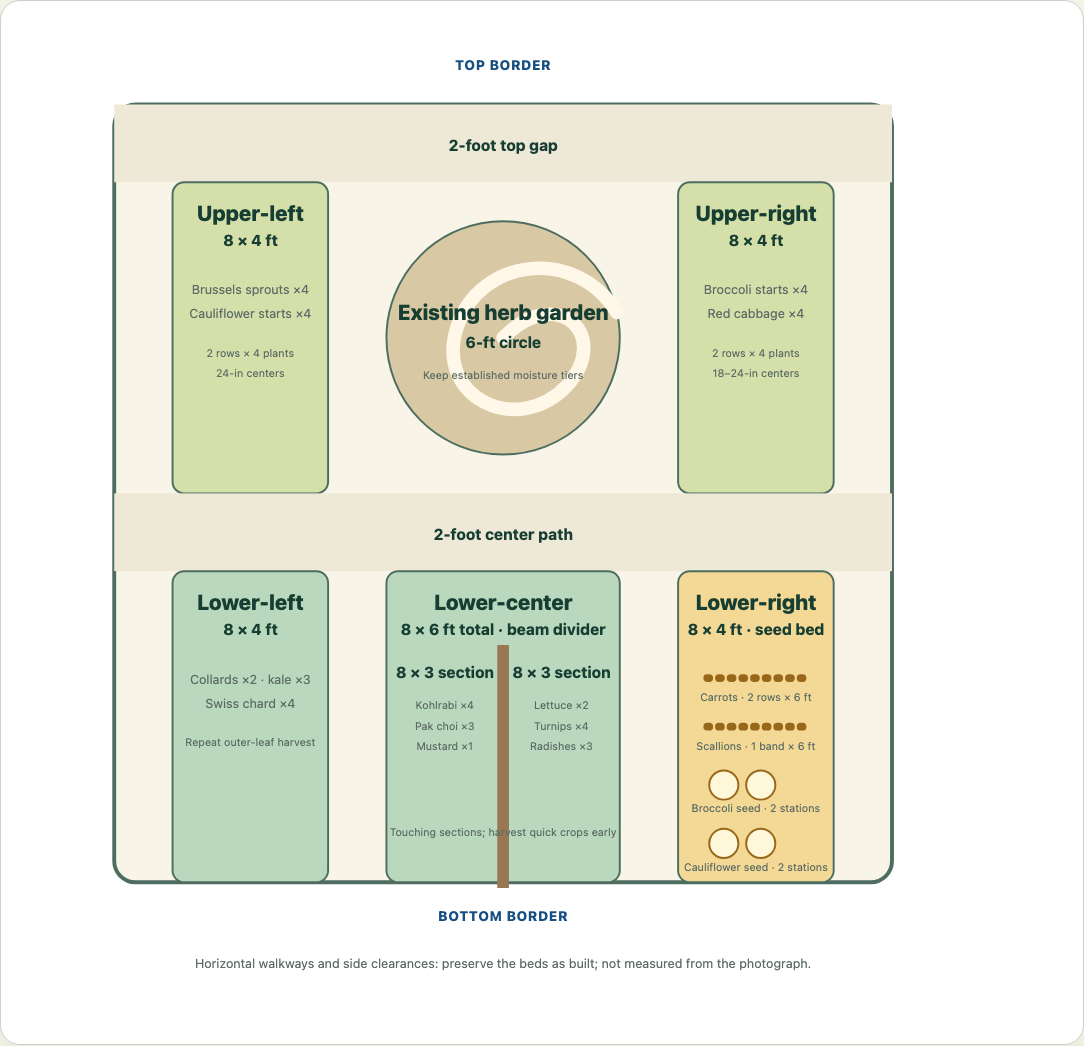
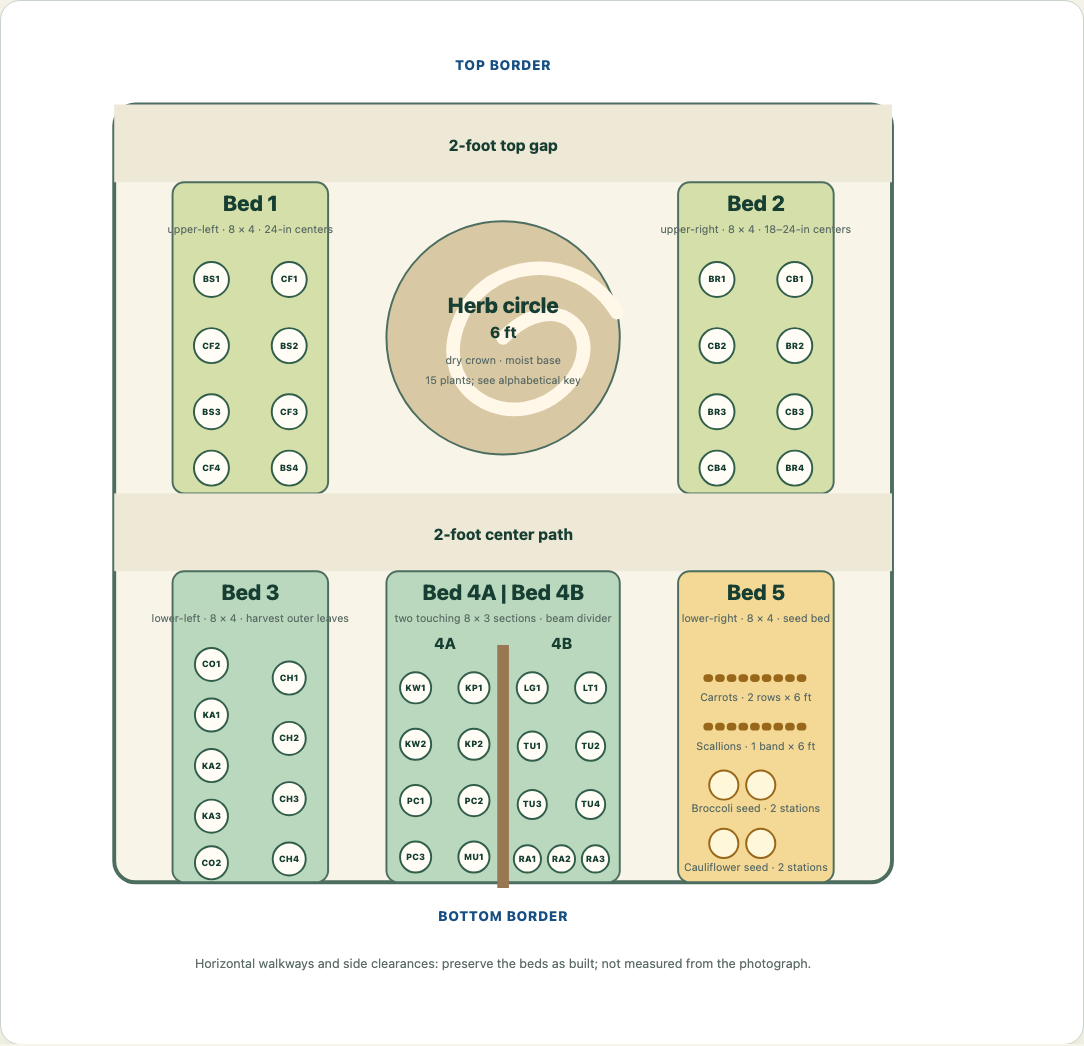
Add exact bed planting assignments

diff --git a/projects/fall-garden-simplified-layout.html b/projects/fall-garden-simplified-layout.html
@@ -26,11 +26,19 @@
       .station{fill:#fff7da;stroke:#986719;stroke-width:2}
       .trellis{stroke:var(--accent);stroke-width:5;stroke-dasharray:10 7;fill:none}
       .beam{stroke:#9a7753;stroke-width:12;stroke-linecap:square}
+      .plant-dot{fill:#fffdf5;stroke:#315e4a;stroke-width:2}
+      .plant-code{font-size:9px;font-weight:850;fill:#173e32;text-anchor:middle;dominant-baseline:central}
       .note{fill:#fff;stroke:#9cad9f;stroke-width:1.5}
       .cards{display:grid;grid-template-columns:repeat(auto-fit,minmax(240px,1fr));gap:14px;margin-top:18px}
       .card{background:#fff;border:1px solid #c9d3cb;border-radius:14px;padding:16px}
       .card h2{font-size:17px;margin:0 0 6px}.card p,.card ul{margin:0;color:var(--muted)}
       .card ul{padding-left:18px}.warning{border-color:#d69b7f;background:#fff8f3}
+      .list-wrap{margin-top:20px;overflow:auto;background:#fff;border:1px solid #c9d3cb;border-radius:16px}
+      table{width:100%;border-collapse:collapse;min-width:760px}
+      th,td{padding:11px 13px;text-align:left;border-bottom:1px solid #dde4df;vertical-align:top}
+      th{background:#edf3ed;color:var(--fg);font-size:12px;letter-spacing:.04em;text-transform:uppercase}
+      tbody tr:last-child td{border-bottom:0}
+      .bed-id{font-weight:800;color:var(--accent);white-space:nowrap}
       @media print{body{background:#fff}.map{box-shadow:none}.cards{grid-template-columns:repeat(2,1fr)}}
     </style>
   </head>
@@ -50,54 +58,85 @@
           <text x="500" y="138" text-anchor="middle" class="label">2-foot top gap</text>
 
           <rect x="160" y="170" width="160" height="320" rx="12" class="bed large"/>
-          <text x="240" y="210" text-anchor="middle" class="title">Upper-left</text>
-          <text x="240" y="236" text-anchor="middle" class="label">8 × 4 ft</text>
-          <text x="240" y="285" text-anchor="middle" class="small">Brussels sprouts ×4</text>
-          <text x="240" y="310" text-anchor="middle" class="small">Cauliflower starts ×4</text>
-          <text x="240" y="350" text-anchor="middle" class="tiny">2 rows × 4 plants</text>
-          <text x="240" y="370" text-anchor="middle" class="tiny">24-in centers</text>
+          <text x="240" y="200" text-anchor="middle" class="title">Bed 1</text>
+          <text x="240" y="222" text-anchor="middle" class="tiny">upper-left · 8 × 4 · 24-in centers</text>
+          <g aria-label="Four Brussels sprouts and four cauliflower starts in alternating rows">
+            <circle cx="200" cy="270" r="18" class="plant-dot"/><text x="200" y="270" class="plant-code">BS1</text>
+            <circle cx="280" cy="270" r="18" class="plant-dot"/><text x="280" y="270" class="plant-code">CF1</text>
+            <circle cx="200" cy="338" r="18" class="plant-dot"/><text x="200" y="338" class="plant-code">CF2</text>
+            <circle cx="280" cy="338" r="18" class="plant-dot"/><text x="280" y="338" class="plant-code">BS2</text>
+            <circle cx="200" cy="406" r="18" class="plant-dot"/><text x="200" y="406" class="plant-code">BS3</text>
+            <circle cx="280" cy="406" r="18" class="plant-dot"/><text x="280" y="406" class="plant-code">CF3</text>
+            <circle cx="200" cy="464" r="18" class="plant-dot"/><text x="200" y="464" class="plant-code">CF4</text>
+            <circle cx="280" cy="464" r="18" class="plant-dot"/><text x="280" y="464" class="plant-code">BS4</text>
+          </g>
 
           <circle cx="500" cy="330" r="120" class="bed spiral"/>
           <path d="M500 330c58-58 112 0 65 50-50 52-137 12-112-62 23-70 122-83 164-14" fill="none" stroke="#fff8e9" stroke-width="14" stroke-linecap="round"/>
-          <text x="500" y="312" text-anchor="middle" class="title">Existing herb garden</text>
-          <text x="500" y="340" text-anchor="middle" class="label">6-ft circle</text>
-          <text x="500" y="372" text-anchor="middle" class="tiny">Keep established moisture tiers</text>
+          <text x="500" y="304" text-anchor="middle" class="title">Herb circle</text>
+          <text x="500" y="330" text-anchor="middle" class="label">6 ft</text>
+          <text x="500" y="357" text-anchor="middle" class="tiny">dry crown · moist base</text>
+          <text x="500" y="378" text-anchor="middle" class="tiny">15 plants; see alphabetical key</text>
 
           <rect x="680" y="170" width="160" height="320" rx="12" class="bed large"/>
-          <text x="760" y="210" text-anchor="middle" class="title">Upper-right</text>
-          <text x="760" y="236" text-anchor="middle" class="label">8 × 4 ft</text>
-          <text x="760" y="285" text-anchor="middle" class="small">Broccoli starts ×4</text>
-          <text x="760" y="310" text-anchor="middle" class="small">Red cabbage ×4</text>
-          <text x="760" y="350" text-anchor="middle" class="tiny">2 rows × 4 plants</text>
-          <text x="760" y="370" text-anchor="middle" class="tiny">18–24-in centers</text>
+          <text x="760" y="200" text-anchor="middle" class="title">Bed 2</text>
+          <text x="760" y="222" text-anchor="middle" class="tiny">upper-right · 8 × 4 · 18–24-in centers</text>
+          <g aria-label="Four broccoli and four red cabbage plants in alternating rows">
+            <circle cx="720" cy="270" r="18" class="plant-dot"/><text x="720" y="270" class="plant-code">BR1</text>
+            <circle cx="800" cy="270" r="18" class="plant-dot"/><text x="800" y="270" class="plant-code">CB1</text>
+            <circle cx="720" cy="338" r="18" class="plant-dot"/><text x="720" y="338" class="plant-code">CB2</text>
+            <circle cx="800" cy="338" r="18" class="plant-dot"/><text x="800" y="338" class="plant-code">BR2</text>
+            <circle cx="720" cy="406" r="18" class="plant-dot"/><text x="720" y="406" class="plant-code">BR3</text>
+            <circle cx="800" cy="406" r="18" class="plant-dot"/><text x="800" y="406" class="plant-code">CB3</text>
+            <circle cx="720" cy="464" r="18" class="plant-dot"/><text x="720" y="464" class="plant-code">CB4</text>
+            <circle cx="800" cy="464" r="18" class="plant-dot"/><text x="800" y="464" class="plant-code">BR4</text>
+          </g>
 
           <rect x="100" y="490" width="800" height="80" class="path"/>
           <text x="500" y="538" text-anchor="middle" class="label">2-foot center path</text>
 
           <rect x="160" y="570" width="160" height="320" rx="12" class="bed leaf"/>
-          <text x="240" y="610" text-anchor="middle" class="title">Lower-left</text>
-          <text x="240" y="636" text-anchor="middle" class="label">8 × 4 ft</text>
-          <text x="240" y="686" text-anchor="middle" class="small">Collards ×2 · kale ×3</text>
-          <text x="240" y="711" text-anchor="middle" class="small">Swiss chard ×4</text>
-          <text x="240" y="750" text-anchor="middle" class="tiny">Repeat outer-leaf harvest</text>
+          <text x="240" y="600" text-anchor="middle" class="title">Bed 3</text>
+          <text x="240" y="622" text-anchor="middle" class="tiny">lower-left · 8 × 4 · harvest outer leaves</text>
+          <g aria-label="Two collards and three kale in one row, four Swiss chard in the other">
+            <circle cx="200" cy="666" r="17" class="plant-dot"/><text x="200" y="666" class="plant-code">CO1</text>
+            <circle cx="200" cy="718" r="17" class="plant-dot"/><text x="200" y="718" class="plant-code">KA1</text>
+            <circle cx="200" cy="770" r="17" class="plant-dot"/><text x="200" y="770" class="plant-code">KA2</text>
+            <circle cx="200" cy="822" r="17" class="plant-dot"/><text x="200" y="822" class="plant-code">KA3</text>
+            <circle cx="200" cy="870" r="17" class="plant-dot"/><text x="200" y="870" class="plant-code">CO2</text>
+            <circle cx="280" cy="680" r="17" class="plant-dot"/><text x="280" y="680" class="plant-code">CH1</text>
+            <circle cx="280" cy="742" r="17" class="plant-dot"/><text x="280" y="742" class="plant-code">CH2</text>
+            <circle cx="280" cy="804" r="17" class="plant-dot"/><text x="280" y="804" class="plant-code">CH3</text>
+            <circle cx="280" cy="866" r="17" class="plant-dot"/><text x="280" y="866" class="plant-code">CH4</text>
+          </g>
 
           <rect x="380" y="570" width="240" height="320" rx="12" class="bed leaf"/>
-          <text x="500" y="610" text-anchor="middle" class="title">Lower-center</text>
-          <text x="500" y="636" text-anchor="middle" class="label">8 × 6 ft total · beam divider</text>
+          <text x="500" y="600" text-anchor="middle" class="title">Bed 4A | Bed 4B</text>
+          <text x="500" y="622" text-anchor="middle" class="tiny">two touching 8 × 3 sections · beam divider</text>
           <line x1="500" y1="652" x2="500" y2="890" class="beam"/>
-          <text x="440" y="680" text-anchor="middle" class="label">8 × 3 section</text>
-          <text x="440" y="712" text-anchor="middle" class="tiny">Kohlrabi ×4</text>
-          <text x="440" y="733" text-anchor="middle" class="tiny">Pak choi ×3</text>
-          <text x="440" y="754" text-anchor="middle" class="tiny">Mustard ×1</text>
-          <text x="560" y="680" text-anchor="middle" class="label">8 × 3 section</text>
-          <text x="560" y="712" text-anchor="middle" class="tiny">Lettuce ×2</text>
-          <text x="560" y="733" text-anchor="middle" class="tiny">Turnips ×4</text>
-          <text x="560" y="754" text-anchor="middle" class="tiny">Radishes ×3</text>
-          <text x="500" y="842" text-anchor="middle" class="tiny">Touching sections; harvest quick crops early</text>
+          <text x="440" y="650" text-anchor="middle" class="label">4A</text>
+          <circle cx="410" cy="690" r="16" class="plant-dot"/><text x="410" y="690" class="plant-code">KW1</text>
+          <circle cx="470" cy="690" r="16" class="plant-dot"/><text x="470" y="690" class="plant-code">KP1</text>
+          <circle cx="410" cy="748" r="16" class="plant-dot"/><text x="410" y="748" class="plant-code">KW2</text>
+          <circle cx="470" cy="748" r="16" class="plant-dot"/><text x="470" y="748" class="plant-code">KP2</text>
+          <circle cx="410" cy="806" r="16" class="plant-dot"/><text x="410" y="806" class="plant-code">PC1</text>
+          <circle cx="470" cy="806" r="16" class="plant-dot"/><text x="470" y="806" class="plant-code">PC2</text>
+          <circle cx="410" cy="864" r="16" class="plant-dot"/><text x="410" y="864" class="plant-code">PC3</text>
+          <circle cx="470" cy="864" r="16" class="plant-dot"/><text x="470" y="864" class="plant-code">MU1</text>
+          <text x="560" y="650" text-anchor="middle" class="label">4B</text>
+          <circle cx="530" cy="690" r="16" class="plant-dot"/><text x="530" y="690" class="plant-code">LG1</text>
+          <circle cx="590" cy="690" r="16" class="plant-dot"/><text x="590" y="690" class="plant-code">LT1</text>
+          <circle cx="530" cy="750" r="15" class="plant-dot"/><text x="530" y="750" class="plant-code">TU1</text>
+          <circle cx="590" cy="750" r="15" class="plant-dot"/><text x="590" y="750" class="plant-code">TU2</text>
+          <circle cx="530" cy="810" r="15" class="plant-dot"/><text x="530" y="810" class="plant-code">TU3</text>
+          <circle cx="590" cy="810" r="15" class="plant-dot"/><text x="590" y="810" class="plant-code">TU4</text>
+          <circle cx="525" cy="866" r="14" class="plant-dot"/><text x="525" y="866" class="plant-code">RA1</text>
+          <circle cx="560" cy="866" r="14" class="plant-dot"/><text x="560" y="866" class="plant-code">RA2</text>
+          <circle cx="595" cy="866" r="14" class="plant-dot"/><text x="595" y="866" class="plant-code">RA3</text>
 
           <rect x="680" y="570" width="160" height="320" rx="12" class="bed seed"/>
-          <text x="760" y="610" text-anchor="middle" class="title">Lower-right</text>
-          <text x="760" y="636" text-anchor="middle" class="label">8 × 4 ft · seed bed</text>
+          <text x="760" y="600" text-anchor="middle" class="title">Bed 5</text>
+          <text x="760" y="622" text-anchor="middle" class="tiny">lower-right · 8 × 4 · seed bed</text>
           <line x1="710" y1="680" x2="810" y2="680" class="seedline"/>
           <text x="760" y="704" text-anchor="middle" class="tiny">Carrots · 2 rows × 6 ft</text>
           <line x1="710" y1="730" x2="810" y2="730" class="seedline"/>
@@ -116,6 +155,54 @@
         <section class="card"><h2>Watering-can rule</h2><p>Keep seed surfaces evenly damp with a gentle rose. Water established transplants deeply at their root zones only after the two-inch soil check shows drying.</p></section>
         <section class="card warning"><h2>Geometry check</h2><p>The vertical dimensions total exactly 20 feet. Do not alter the five rectangular beds or six-foot herb circle. Preserve the horizontal access spaces already present in the field.</p></section>
       </div>
+      <section aria-labelledby="alphabetical-heading">
+        <h2 id="alphabetical-heading" style="margin:28px 0 8px">Alphabetical planting list</h2>
+        <p class="lede">Bed numbers match the diagram. Counts are individual plants unless the row says seed batch.</p>
+        <div class="list-wrap">
+          <table>
+            <thead><tr><th>Plant</th><th>Count</th><th>Bed / zone</th><th>Exact placement</th></tr></thead>
+            <tbody>
+              <tr><td>Basil</td><td>2</td><td class="bed-id">Herb circle</td><td>Middle, moderate-moisture terrace; keep movable during cold weather.</td></tr>
+              <tr><td>Broccoli, Green Magic</td><td>4</td><td class="bed-id">Bed 2</td><td>Alternating checkerboard with cabbage, 18–24 inches apart.</td></tr>
+              <tr><td>Broccoli seed</td><td>1 batch</td><td class="bed-id">Bed 5</td><td>Two nursery stations; transplant later into harvested gaps.</td></tr>
+              <tr><td>Brussels sprouts, Jade Cross</td><td>4</td><td class="bed-id">Bed 1</td><td>Alternating checkerboard with cauliflower, 24 inches apart.</td></tr>
+              <tr><td>Cabbage, Red Express</td><td>4</td><td class="bed-id">Bed 2</td><td>Alternating checkerboard with broccoli, 18–24 inches apart.</td></tr>
+              <tr><td>Carrots</td><td>1 seed batch</td><td class="bed-id">Bed 5</td><td>Two six-foot rows in an 18-inch-wide loose-soil strip.</td></tr>
+              <tr><td>Cauliflower, Snow Crown</td><td>4</td><td class="bed-id">Bed 1</td><td>Alternating checkerboard with Brussels sprouts, 24 inches apart.</td></tr>
+              <tr><td>Cauliflower seed</td><td>1 batch</td><td class="bed-id">Bed 5</td><td>Two nursery stations; transplant later into harvested gaps.</td></tr>
+              <tr><td>Chamomile — confirm type</td><td>4</td><td class="bed-id">Sunny path pots</td><td>Keep movable until German versus Roman type is confirmed.</td></tr>
+              <tr><td>Chile pequín</td><td>1</td><td class="bed-id">Dry perimeter</td><td>Sunny east-side edge with mature shrub room.</td></tr>
+              <tr><td>Collards, Georgia</td><td>2</td><td class="bed-id">Bed 3</td><td>At opposite ends of the kale row; harvest outer leaves.</td></tr>
+              <tr><td>Fennel, Orion</td><td>1</td><td class="bed-id">Separate pot</td><td>Sunny perimeter; do not crowd the herb circle.</td></tr>
+              <tr><td>French Breakfast radish</td><td>3</td><td class="bed-id">Bed 4B</td><td>Three plants along the most accessible beam/path edge.</td></tr>
+              <tr><td>Galactic lettuce</td><td>1</td><td class="bed-id">Bed 4B</td><td>First position in the lettuce line.</td></tr>
+              <tr><td>Kale, Redbor</td><td>3</td><td class="bed-id">Bed 3</td><td>Between the two collards in one long row.</td></tr>
+              <tr><td>Kohlrabi, purple</td><td>2</td><td class="bed-id">Bed 4A</td><td>Alternating with white kohlrabi in the first row.</td></tr>
+              <tr><td>Kohlrabi, white</td><td>2</td><td class="bed-id">Bed 4A</td><td>Alternating with purple kohlrabi in the first row.</td></tr>
+              <tr><td>Leaf fennel / dill — confirm</td><td>3</td><td class="bed-id">West entrance pots</td><td>Keep separately labeled until identity is confirmed.</td></tr>
+              <tr><td>Lemon balm</td><td>2</td><td class="bed-id">Herb circle</td><td>Contained pots on the moist lower terrace.</td></tr>
+              <tr><td>Lemongrass</td><td>2</td><td class="bed-id">Movable containers</td><td>Sunny south/southeast perimeter; protect from cold.</td></tr>
+              <tr><td>Lettuce, Tropicana</td><td>1</td><td class="bed-id">Bed 4B</td><td>Second position in the lettuce line.</td></tr>
+              <tr><td>Malabar spinach</td><td>1</td><td class="bed-id">Container + trellis</td><td>Warm-season hold on the sunny perimeter.</td></tr>
+              <tr><td>Marjoram, compact</td><td>1</td><td class="bed-id">Herb circle</td><td>Upper dry shoulder below the rosemary crown.</td></tr>
+              <tr><td>Mexican mint marigold</td><td>3</td><td class="bed-id">Pollinator perimeter</td><td>East/northeast edge where mature height will not shade beds.</td></tr>
+              <tr><td>Mustard, Red Giant</td><td>1</td><td class="bed-id">Bed 4A</td><td>End of the pak-choi row; harvest young if space tightens.</td></tr>
+              <tr><td>Nasturtium</td><td>1</td><td class="bed-id">Movable pot</td><td>Near brassicas for observation, but outside the beds to prevent sprawl.</td></tr>
+              <tr><td>Pak choi, red</td><td>3</td><td class="bed-id">Bed 4A</td><td>Second row with mustard; 8–12 inches apart.</td></tr>
+              <tr><td>Pearl Pod bean — confirm habit</td><td>4</td><td class="bed-id">North trellis</td><td>Use trellis only if tag confirms climbing beans.</td></tr>
+              <tr><td>Rosemary</td><td>3</td><td class="bed-id">Herb circle + dry perimeter</td><td>One pruned crown plant; two on the dry east-side perimeter.</td></tr>
+              <tr><td>Rue</td><td>2</td><td class="bed-id">Dry perimeter</td><td>Away from entrance and skin-contact paths.</td></tr>
+              <tr><td>Sage</td><td>1</td><td class="bed-id">Herb circle</td><td>Upper dry shoulder with excellent drainage.</td></tr>
+              <tr><td>Scallions</td><td>1 seed batch</td><td class="bed-id">Bed 5</td><td>One six-foot band beside—but separately labeled from—carrots.</td></tr>
+              <tr><td>Strawberries</td><td>3</td><td class="bed-id">Herb circle</td><td>Sunny lower apron with even moisture.</td></tr>
+              <tr><td>Sweet woodruff</td><td>3</td><td class="bed-id">Herb circle</td><td>Removable pots at the coolest shaded base.</td></tr>
+              <tr><td>Swiss chard</td><td>4</td><td class="bed-id">Bed 3</td><td>One long row parallel to the collard/kale row.</td></tr>
+              <tr><td>Turnip, Scarlet Queen</td><td>4</td><td class="bed-id">Bed 4B</td><td>Middle succession line; harvest before roots crowd.</td></tr>
+              <tr><td>Vietnamese cilantro</td><td>2</td><td class="bed-id">Herb circle</td><td>Contained pots on the moist lower terrace.</td></tr>
+            </tbody>
+          </table>
+        </div>
+      </section>
     </main>
   </body>
 </html>

diff --git a/assets/garden-tracker.js b/assets/garden-tracker.js
@@ -1,18 +1,18 @@
 (()=>{
   'use strict';
   const GROUPS=[
-    ['BS','Jade Cross Brussels sprouts',4,'Upper-left 8 × 4 bed'],['CF','Snow Crown cauliflower',4,'Upper-left 8 × 4 bed'],
-    ['CB','Red Express cabbage',4,'Upper-right 8 × 4 bed'],['BR','Green Magic broccoli',4,'Upper-right 8 × 4 bed'],['KW','White kohlrabi',2,'Lower-center section 1 · 8 × 3'],['KP','Purple kohlrabi',2,'Lower-center section 1 · 8 × 3'],
-    ['CO','Georgia collards',2,'Lower-left 8 × 4 bed'],['KA','Redbor kale',3,'Lower-left 8 × 4 bed'],['CH','Swiss chard',4,'Lower-left 8 × 4 bed'],['PC','Red pak choi',3,'Lower-center section 1 · 8 × 3'],['MU','Red Giant mustard',1,'Lower-center section 1 · 8 × 3'],['LG','Galactic lettuce',1,'Lower-center section 2 · 8 × 3'],['LT','Tropicana lettuce',1,'Lower-center section 2 · 8 × 3'],['TU','Scarlet Queen turnip',4,'Lower-center section 2 · 8 × 3'],['RA','French Breakfast radish',3,'Lower-center section 2 · 8 × 3'],
+    ['BS','Jade Cross Brussels sprouts',4,'Bed 1 · upper-left 8 × 4'],['CF','Snow Crown cauliflower',4,'Bed 1 · upper-left 8 × 4'],
+    ['CB','Red Express cabbage',4,'Bed 2 · upper-right 8 × 4'],['BR','Green Magic broccoli',4,'Bed 2 · upper-right 8 × 4'],['KW','White kohlrabi',2,'Bed 4A · lower-center 8 × 3'],['KP','Purple kohlrabi',2,'Bed 4A · lower-center 8 × 3'],
+    ['CO','Georgia collards',2,'Bed 3 · lower-left 8 × 4'],['KA','Redbor kale',3,'Bed 3 · lower-left 8 × 4'],['CH','Swiss chard',4,'Bed 3 · lower-left 8 × 4'],['PC','Red pak choi',3,'Bed 4A · lower-center 8 × 3'],['MU','Red Giant mustard',1,'Bed 4A · lower-center 8 × 3'],['LG','Galactic lettuce',1,'Bed 4B · lower-center 8 × 3'],['LT','Tropicana lettuce',1,'Bed 4B · lower-center 8 × 3'],['TU','Scarlet Queen turnip',4,'Bed 4B · lower-center 8 × 3'],['RA','French Breakfast radish',3,'Bed 4B · lower-center 8 × 3'],
     ['RO','Rosemary',3,'Herb spiral / east dry edge'],['SG','Culinary sage',1,'Herb spiral'],['MJ','Compact marjoram',1,'Herb spiral'],['BA','Basil',2,'Herb spiral'],['VC','Vietnamese cilantro',2,'Herb spiral'],['LB','Lemon balm',2,'Herb spiral'],['SW','Sweet woodruff',3,'Herb spiral'],['ST','Strawberry',3,'Herb spiral'],
     ['RU','Rue',2,'East dry edge'],['CP','Chile pequín',1,'East dry edge'],['MM','Mexican mint marigold',3,'East / northeast pollinator edge'],
     ['LM','Lemongrass',2,'South / southeast containers'],['MS','Malabar spinach',1,'South / southeast containers'],['NA','Nasturtium',1,'Movable container'],['FO','Orion fennel',1,'Movable container'],['FD','Leaf fennel / dill — confirm',3,'West entrance pots'],
     ['BE','Pearl Pod bean — confirm habit',4,'V-shaped north trellis'],
     ['CM','Chamomile — confirm German or Roman',4,'Sunny south path pots'],
-    ['CA','Carrot seed strip — batch',1,'Lower-right 8 × 4 seed bed'],
-    ['SC','Scallion seed band — batch',1,'Lower-right 8 × 4 seed bed'],
-    ['BRS','Broccoli seed nursery — batch',1,'Lower-right 8 × 4 seed bed'],
-    ['CFS','Cauliflower seed nursery — batch',1,'Lower-right 8 × 4 seed bed']
+    ['CA','Carrot seed strip — batch',1,'Bed 5 · lower-right 8 × 4'],
+    ['SC','Scallion seed band — batch',1,'Bed 5 · lower-right 8 × 4'],
+    ['BRS','Broccoli seed nursery — batch',1,'Bed 5 · lower-right 8 × 4'],
+    ['CFS','Cauliflower seed nursery — batch',1,'Bed 5 · lower-right 8 × 4']
   ];
   let serial=0;
   const PLANTS=GROUPS.flatMap(([code,name,count,location])=>Array.from({length:count},(_,i)=>({id:`${code}-${String(i+1).padStart(2,'0')}`,number:++serial,code,name,specimen:i+1,total:count,location})));

diff --git a/projects/south-texas-fall-garden-plan.html b/projects/south-texas-fall-garden-plan.html
@@ -72,12 +72,12 @@
           <noscript><img src="../assets/fall-garden/simplified-layout-2026.png" alt="Corrected fall garden plan showing five rectangular beds in two rows around a six-foot circular herb garden" width="1084" height="1040"></noscript>
           <p class="plot-note"><a href="fall-garden-simplified-layout.html"><strong>Open or print the simplified layout by itself →</strong></a></p>
           <div class="garden-cards" style="margin-top:22px">
-            <article class="garden-card"><h3>Upper-left · 8 × 4 ft</h3><p>Jade Cross Brussels sprouts ×4 and Snow Crown cauliflower transplants ×4 in two rows at about 24 inches.</p></article>
+            <article class="garden-card"><h3>Bed 1 · upper-left · 8 × 4 ft</h3><p>Jade Cross Brussels sprouts ×4 and Snow Crown cauliflower transplants ×4 in an alternating two-by-four checkerboard at about 24 inches.</p></article>
             <article class="garden-card"><h3>Upper-center · 6-ft circle</h3><p>Keep the established herb garden and its dry-crown, moderate-middle, and moist-base watering tiers.</p></article>
-            <article class="garden-card"><h3>Upper-right · 8 × 4 ft</h3><p>Green Magic broccoli transplants ×4 and Red Express cabbage ×4 at 18–24 inches.</p></article>
-            <article class="garden-card"><h3>Lower-left · 8 × 4 ft</h3><p>Georgia collards ×2, Redbor kale ×3, and Swiss chard ×4 for repeated outer-leaf harvests.</p></article>
-            <article class="garden-card"><h3>Lower-center · two touching 8 × 3 sections</h3><p>The dividing beam creates two management sections: kohlrabi, pak choi, and mustard on one side; lettuce, turnips, and radishes on the other.</p></article>
-            <article class="garden-card"><h3>Lower-right · 8 × 4 ft</h3><p>Two 6-foot carrot rows, one 6-foot scallion band, two broccoli-seed stations, and two cauliflower-seed stations.</p></article>
+            <article class="garden-card"><h3>Bed 2 · upper-right · 8 × 4 ft</h3><p>Green Magic broccoli transplants ×4 and Red Express cabbage ×4 in an alternating two-by-four checkerboard at 18–24 inches.</p></article>
+            <article class="garden-card"><h3>Bed 3 · lower-left · 8 × 4 ft</h3><p>One row of Georgia collards ×2 with Redbor kale ×3 between them, plus one parallel row of Swiss chard ×4.</p></article>
+            <article class="garden-card"><h3>Beds 4A and 4B · touching 8 × 3 sections</h3><p>The beam divides Bed 4A—kohlrabi, pak choi, and mustard—from Bed 4B—lettuce, turnips, and radishes.</p></article>
+            <article class="garden-card"><h3>Bed 5 · lower-right · 8 × 4 ft</h3><p>Two 6-foot carrot rows, one 6-foot scallion band, two broccoli-seed stations, and two cauliflower-seed stations.</p></article>
           </div>
           <div class="garden-table-wrap" style="margin-top:22px">
             <table class="garden-table">

diff --git a/garden-tracker-sw.js b/garden-tracker-sw.js
@@ -1,4 +1,4 @@
-const CACHE='garden-tracker-v9';
+const CACHE='garden-tracker-v10';
 const ASSETS=['/projects/garden-health-tracker.html','/assets/garden-tracker.css','/assets/garden-tracker.js','/assets/garden-tracker-icon.svg','/assets/howdy-partner-logo.png'];
 self.addEventListener('install',event=>event.waitUntil(caches.open(CACHE).then(cache=>cache.addAll(ASSETS)).then(()=>self.skipWaiting())));
 self.addEventListener('activate',event=>event.waitUntil(caches.keys().then(keys=>Promise.all(keys.filter(key=>key!==CACHE).map(key=>caches.delete(key)))).then(()=>self.clients.claim())));
